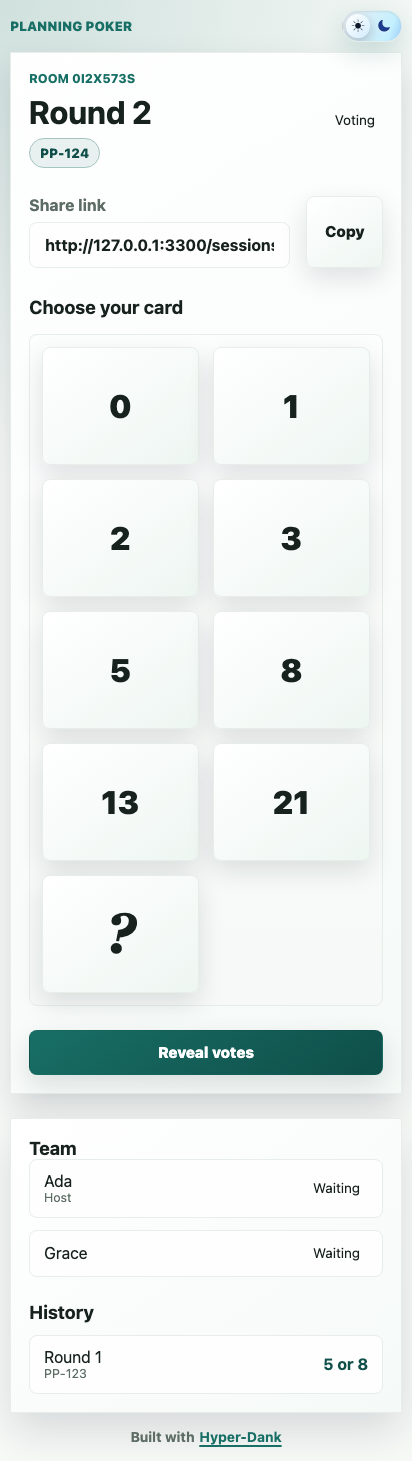
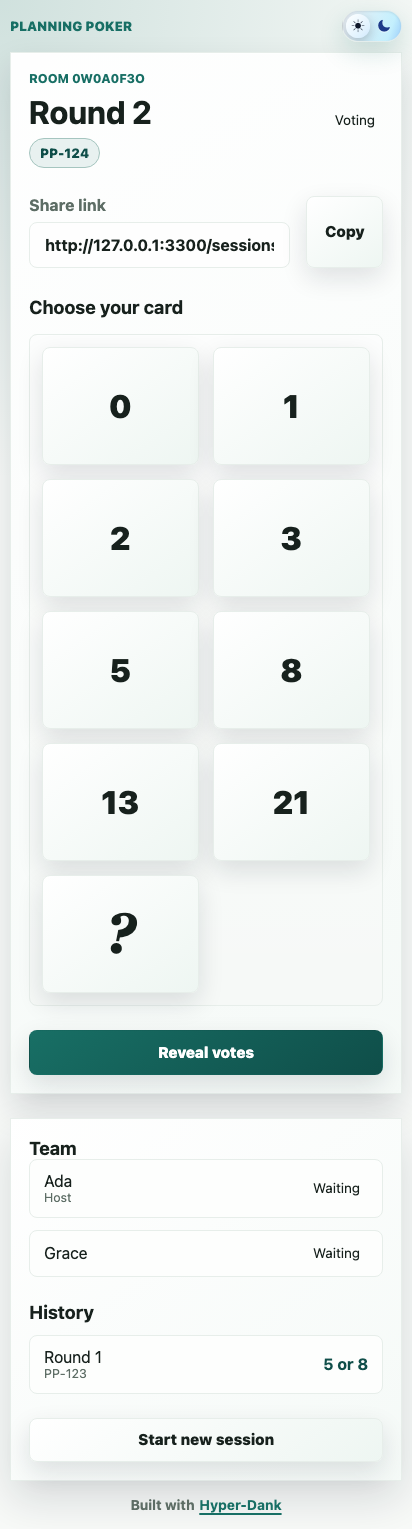
feat: add host new session action

diff --git a/src/http/app.test.tsx b/src/http/app.test.tsx
@@ -133,6 +133,29 @@ describe("planning poker routes", () => {
     expect(resetHtml).toContain("PP-123");
   });
 
+  test("shows the host a quick path to start a new session", async () => {
+    const { app } = await createHarness();
+    const created = await app.fetch(
+      postForm("http://example.test/sessions", { displayName: "Ada" }),
+    );
+    const location = created.headers.get("location") ?? "";
+    const hostCookie = cookieHeader(created);
+    const joined = await app.fetch(
+      postForm(`http://example.test${location}/join`, { displayName: "Grace" }),
+    );
+    const guestCookie = cookieHeader(joined);
+
+    const hostRoom = await app.fetch(
+      new Request(`http://example.test${location}`, { headers: { cookie: hostCookie } }),
+    );
+    const guestRoom = await app.fetch(
+      new Request(`http://example.test${location}`, { headers: { cookie: guestCookie } }),
+    );
+
+    expect(await hostRoom.text()).toContain("Start new session");
+    expect(await guestRoom.text()).not.toContain("Start new session");
+  });
+
   test("opens an SSE stream", async () => {
     const { app } = await createHarness();
     const created = await app.fetch(

diff --git a/src/client/styles.css b/src/client/styles.css
@@ -616,6 +616,12 @@ input {
   margin-top: 24px;
 }
 
+.session-actions {
+  display: flex;
+  justify-content: flex-end;
+  margin-top: 24px;
+}
+
 .history-list strong {
   color: var(--accent-strong);
 }
@@ -742,6 +748,7 @@ input {
 
   .host-controls,
   .host-controls form,
+  .session-actions,
   .stats-list {
     display: grid;
     grid-template-columns: 1fr;

diff --git a/src/components/Room.tsx b/src/components/Room.tsx
@@ -259,6 +259,13 @@ export const RoomFragment = ({ baseUrl, currentParticipant, state }: RoomProps) 
             </ol>
           </section>
         ) : null}
+        {currentParticipant.isHost ? (
+          <div className="session-actions">
+            <a className="button" data-variant="outline" href="/">
+              Start new session
+            </a>
+          </div>
+        ) : null}
       </Card>
     </section>
   );